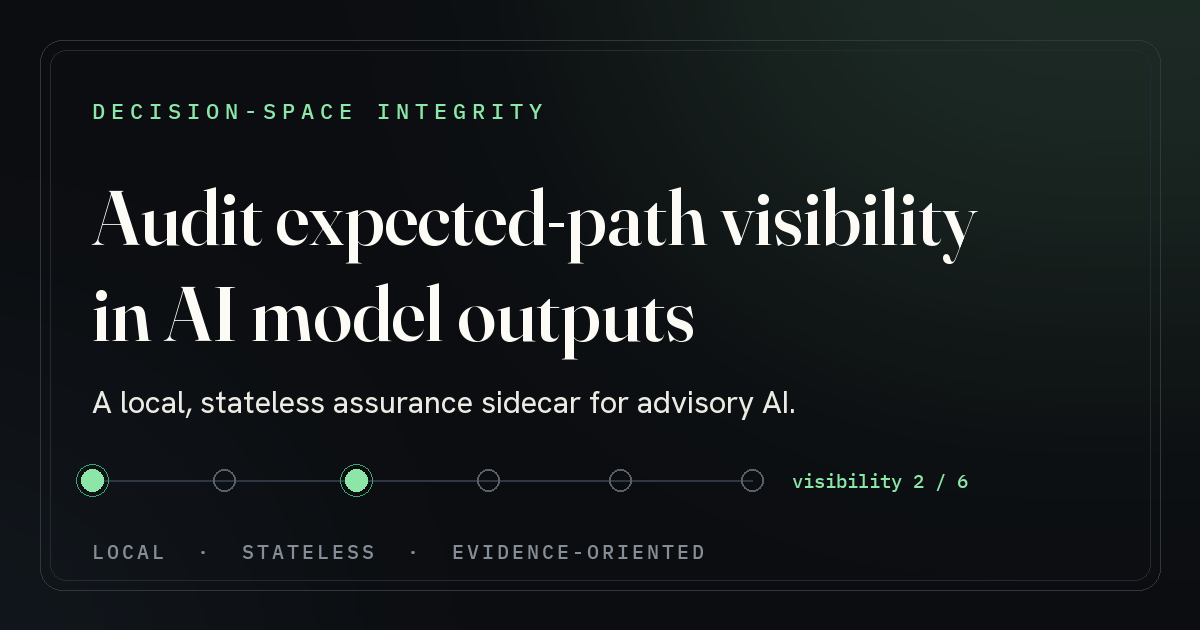
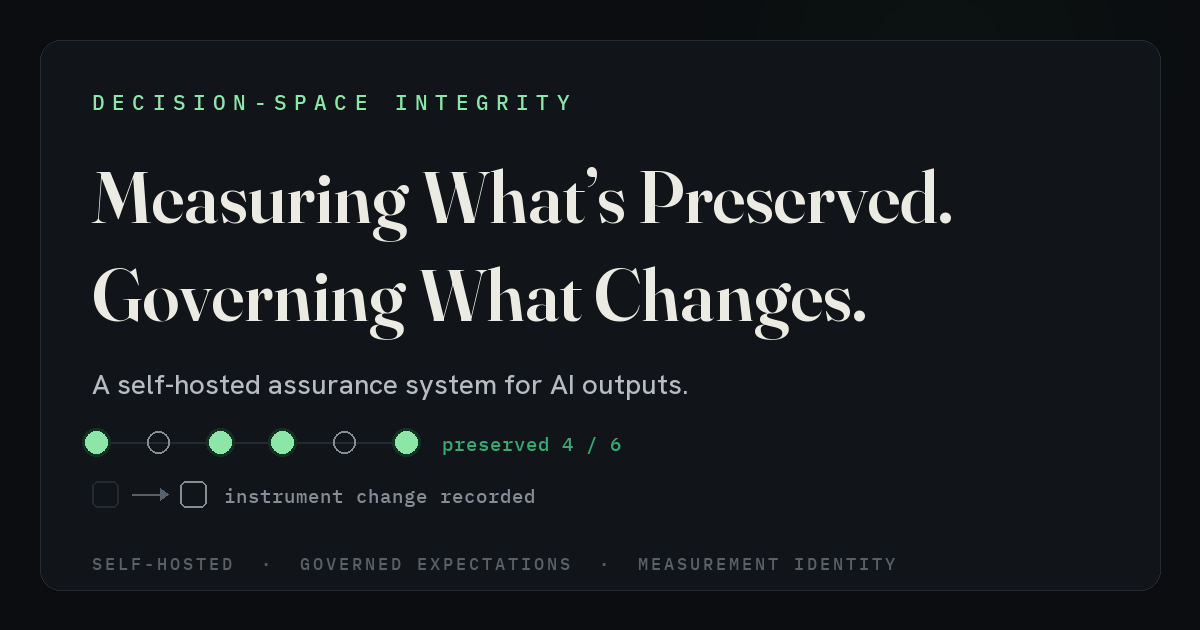
website: re-cut the shared OG card to the WEB-META-1 identity
Replaces assets/og/dsi-og-image.png (1200x630) with artwork carrying the
approved line "Measuring What's Preserved. Governing What Changes." in the
established DSI visual system: #0b0d10 ground, #14181d rounded panel,
#232a32 rule, Fraunces headline, Hanken Grotesk subtitle, IBM Plex Mono
eyebrow and footer, #8ce6a8 accent. The measurement motif is retained and
extended to the two-layer identity: a preserved/missing node rail, and an
instrument-change marker for the governance half.

Because the shared asset changed, all 32 og:image:alt / twitter:image:alt
strings on the 17 pages that reference it were updated to describe the new
artwork. This is an accessibility correction caused by the replacement, not
a positioning rewrite: unrelated technical uses of "expected-path
visibility" in page prose are untouched.

Fonts were temporary build inputs only (Fraunces, Hanken Grotesk and IBM
Plex Mono from the google/fonts OFL repository). No font binary is
committed, styles.css is unchanged, and no @font-face was introduced.

The reviewed copy from 49ba995 is preserved verbatim: title, og:title,
twitter:title and all three description fields are byte-unchanged, and the
visible homepage hero is untouched.

diff --git a/research.html b/research.html
@@ -15,12 +15,12 @@
 <meta property="og:image" content="https://decisionspaceintegrity.com/assets/og/dsi-og-image.png">
 <meta property="og:image:width" content="1200">
 <meta property="og:image:height" content="630">
-<meta property="og:image:alt" content="Decision-Space Integrity — audit expected-path visibility in AI model outputs">
+<meta property="og:image:alt" content="Decision-Space Integrity card: Measuring What's Preserved. Governing What Changes.">
 <meta name="twitter:card" content="summary_large_image">
 <meta name="twitter:title" content="Research — From Decision-Space Collapse to Measurement Integrity">
 <meta name="twitter:description" content="Research on decision-space collapse and the integrity of behavioural measurement: trajectory omission, framing sensitivity, measurement authority and cross-version comparability.">
 <meta name="twitter:image" content="https://decisionspaceintegrity.com/assets/og/dsi-og-image.png">
-<meta name="twitter:image:alt" content="Decision-Space Integrity — audit expected-path visibility in AI model outputs">
+<meta name="twitter:image:alt" content="Decision-Space Integrity card: Measuring What's Preserved. Governing What Changes.">
 <link rel="icon" href="/assets/icons/favicon.svg" type="image/svg+xml">
 <link rel="icon" href="/assets/icons/favicon-32x32.png" sizes="32x32" type="image/png">
 <link rel="icon" href="/assets/icons/favicon-16x16.png" sizes="16x16" type="image/png">

diff --git a/index.html b/index.html
@@ -15,12 +15,12 @@
 <meta property="og:image" content="https://decisionspaceintegrity.com/assets/og/dsi-og-image.png">
 <meta property="og:image:width" content="1200">
 <meta property="og:image:height" content="630">
-<meta property="og:image:alt" content="Decision-Space Integrity — audit expected-path visibility in AI model outputs">
+<meta property="og:image:alt" content="Decision-Space Integrity card: Measuring What's Preserved. Governing What Changes.">
 <meta name="twitter:card" content="summary_large_image">
 <meta name="twitter:title" content="Decision-Space Integrity — Measuring What's Preserved. Governing What Changes.">
 <meta name="twitter:description" content="A self-hosted assurance system that measures which governed expected elements an AI output preserved, with evidence of what changed when the instrument changes.">
 <meta name="twitter:image" content="https://decisionspaceintegrity.com/assets/og/dsi-og-image.png">
-<meta name="twitter:image:alt" content="Decision-Space Integrity — audit expected-path visibility in AI model outputs">
+<meta name="twitter:image:alt" content="Decision-Space Integrity card: Measuring What's Preserved. Governing What Changes.">
 <link rel="icon" href="/assets/icons/favicon.svg" type="image/svg+xml">
 <link rel="icon" href="/assets/icons/favicon-32x32.png" sizes="32x32" type="image/png">
 <link rel="icon" href="/assets/icons/favicon-16x16.png" sizes="16x16" type="image/png">

diff --git a/reading.html b/reading.html
@@ -15,12 +15,12 @@
 <meta property="og:image" content="https://decisionspaceintegrity.com/assets/og/dsi-og-image.png">
 <meta property="og:image:width" content="1200">
 <meta property="og:image:height" content="630">
-<meta property="og:image:alt" content="Decision-Space Integrity — audit expected-path visibility in AI model outputs">
+<meta property="og:image:alt" content="Decision-Space Integrity card: Measuring What's Preserved. Governing What Changes.">
 <meta name="twitter:card" content="summary_large_image">
 <meta name="twitter:title" content="Further reading — the evidence behind decision-space collapse">
 <meta name="twitter:description" content="External research on advisory-AI homogenisation, option narrowing, value suppression, automation bias, and pluralistic alignment — the gap Decision-Space Integrity measures.">
 <meta name="twitter:image" content="https://decisionspaceintegrity.com/assets/og/dsi-og-image.png">
-<meta name="twitter:image:alt" content="Decision-Space Integrity — audit expected-path visibility in AI model outputs">
+<meta name="twitter:image:alt" content="Decision-Space Integrity card: Measuring What's Preserved. Governing What Changes.">
 <link rel="icon" href="/assets/icons/favicon.svg" type="image/svg+xml">
 <link rel="icon" href="/assets/icons/favicon-32x32.png" sizes="32x32" type="image/png">
 <link rel="icon" href="/assets/icons/favicon-16x16.png" sizes="16x16" type="image/png">

diff --git a/product.html b/product.html
@@ -15,12 +15,12 @@
 <meta property="og:image" content="https://decisionspaceintegrity.com/assets/og/dsi-og-image.png">
 <meta property="og:image:width" content="1200">
 <meta property="og:image:height" content="630">
-<meta property="og:image:alt" content="Decision-Space Integrity — audit expected-path visibility in AI model outputs">
+<meta property="og:image:alt" content="Decision-Space Integrity card: Measuring What's Preserved. Governing What Changes.">
 <meta name="twitter:card" content="summary_large_image">
 <meta name="twitter:title" content="Product — Decision-Space Integrity, a local assurance sidecar">
 <meta name="twitter:description" content="DSI audits supplied AI responses, identifies missing configured expected paths, recommends visibility review, re-audits regenerated outputs, and exports evidence bundles.">
 <meta name="twitter:image" content="https://decisionspaceintegrity.com/assets/og/dsi-og-image.png">
-<meta name="twitter:image:alt" content="Decision-Space Integrity — audit expected-path visibility in AI model outputs">
+<meta name="twitter:image:alt" content="Decision-Space Integrity card: Measuring What's Preserved. Governing What Changes.">
 <link rel="icon" href="/assets/icons/favicon.svg" type="image/svg+xml">
 <link rel="icon" href="/assets/icons/favicon-32x32.png" sizes="32x32" type="image/png">
 <link rel="icon" href="/assets/icons/favicon-16x16.png" sizes="16x16" type="image/png">

diff --git a/applications.html b/applications.html
@@ -15,12 +15,12 @@
 <meta property="og:image" content="https://decisionspaceintegrity.com/assets/og/dsi-og-image.png">
 <meta property="og:image:width" content="1200">
 <meta property="og:image:height" content="630">
-<meta property="og:image:alt" content="Decision-Space Integrity — audit expected-path visibility in AI model outputs">
+<meta property="og:image:alt" content="Decision-Space Integrity card: Measuring What's Preserved. Governing What Changes.">
 <meta name="twitter:card" content="summary_large_image">
 <meta name="twitter:title" content="Applications | Decision-Space Integrity">
 <meta name="twitter:description" content="Applications of Decision-Space Integrity: auditing an AI answer against a defined set of expected points and reporting what was omitted, with source evidence.">
 <meta name="twitter:image" content="https://decisionspaceintegrity.com/assets/og/dsi-og-image.png">
-<meta name="twitter:image:alt" content="Decision-Space Integrity — audit expected-path visibility in AI model outputs">
+<meta name="twitter:image:alt" content="Decision-Space Integrity card: Measuring What's Preserved. Governing What Changes.">
 <link rel="icon" href="/assets/icons/favicon.svg" type="image/svg+xml">
 <link rel="icon" href="/assets/icons/favicon-32x32.png" sizes="32x32" type="image/png">
 <link rel="icon" href="/assets/icons/favicon-16x16.png" sizes="16x16" type="image/png">

diff --git a/privacy.html b/privacy.html
@@ -15,12 +15,12 @@
 <meta property="og:image" content="https://decisionspaceintegrity.com/assets/og/dsi-og-image.png">
 <meta property="og:image:width" content="1200">
 <meta property="og:image:height" content="630">
-<meta property="og:image:alt" content="Decision-Space Integrity — audit expected-path visibility in AI model outputs">
+<meta property="og:image:alt" content="Decision-Space Integrity card: Measuring What's Preserved. Governing What Changes.">
 <meta name="twitter:card" content="summary_large_image">
 <meta name="twitter:title" content="Privacy — Decision-Space Integrity">
 <meta name="twitter:description" content="Privacy notice for decisionspaceintegrity.com: what this static site does and does not process, hosting and font requests, email correspondence, and your rights.">
 <meta name="twitter:image" content="https://decisionspaceintegrity.com/assets/og/dsi-og-image.png">
-<meta name="twitter:image:alt" content="Decision-Space Integrity — audit expected-path visibility in AI model outputs">
+<meta name="twitter:image:alt" content="Decision-Space Integrity card: Measuring What's Preserved. Governing What Changes.">
 <link rel="icon" href="/assets/icons/favicon.svg" type="image/svg+xml">
 <link rel="icon" href="/assets/icons/favicon-32x32.png" sizes="32x32" type="image/png">
 <link rel="icon" href="/assets/icons/favicon-16x16.png" sizes="16x16" type="image/png">

diff --git a/paper.html b/paper.html
@@ -15,12 +15,12 @@
 <meta property="og:image" content="https://decisionspaceintegrity.com/assets/og/dsi-og-image.png">
 <meta property="og:image:width" content="1200">
 <meta property="og:image:height" content="630">
-<meta property="og:image:alt" content="Decision-Space Integrity — audit expected-path visibility in AI model outputs">
+<meta property="og:image:alt" content="Decision-Space Integrity card: Measuring What's Preserved. Governing What Changes.">
 <meta name="twitter:card" content="summary_large_image">
 <meta name="twitter:title" content="Decision-Space Collapse in Advisory Language Models">
 <meta name="twitter:description" content="Preprint by Andrew J Cousins on decision-space collapse in advisory language models and the Decision-Space Integrity measurement framework.">
 <meta name="twitter:image" content="https://decisionspaceintegrity.com/assets/og/dsi-og-image.png">
-<meta name="twitter:image:alt" content="Decision-Space Integrity — audit expected-path visibility in AI model outputs">
+<meta name="twitter:image:alt" content="Decision-Space Integrity card: Measuring What's Preserved. Governing What Changes.">
 <link rel="icon" href="/assets/icons/favicon.svg" type="image/svg+xml">
 <link rel="icon" href="/assets/icons/favicon-32x32.png" sizes="32x32" type="image/png">
 <link rel="icon" href="/assets/icons/favicon-16x16.png" sizes="16x16" type="image/png">

diff --git a/release-notes.html b/release-notes.html
@@ -15,12 +15,12 @@
 <meta property="og:image" content="https://decisionspaceintegrity.com/assets/og/dsi-og-image.png">
 <meta property="og:image:width" content="1200">
 <meta property="og:image:height" content="630">
-<meta property="og:image:alt" content="Decision-Space Integrity — audit expected-path visibility in AI model outputs">
+<meta property="og:image:alt" content="Decision-Space Integrity card: Measuring What's Preserved. Governing What Changes.">
 <meta name="twitter:card" content="summary_large_image">
 <meta name="twitter:title" content="Release notes — Decision-Space Integrity 0.2.1">
 <meta name="twitter:description" content="What changed in DSI Product 0.2.1: deployment diagnostics, first-class Regression Audit, a readiness endpoint, and a context-admission fix.">
 <meta name="twitter:image" content="https://decisionspaceintegrity.com/assets/og/dsi-og-image.png">
-<meta name="twitter:image:alt" content="Decision-Space Integrity — audit expected-path visibility in AI model outputs">
+<meta name="twitter:image:alt" content="Decision-Space Integrity card: Measuring What's Preserved. Governing What Changes.">
 <link rel="icon" href="/assets/icons/favicon.svg" type="image/svg+xml">
 <link rel="icon" href="/assets/icons/favicon-32x32.png" sizes="32x32" type="image/png">
 <link rel="icon" href="/assets/icons/favicon-16x16.png" sizes="16x16" type="image/png">

diff --git a/security.html b/security.html
@@ -15,12 +15,12 @@
 <meta property="og:image" content="https://decisionspaceintegrity.com/assets/og/dsi-og-image.png">
 <meta property="og:image:width" content="1200">
 <meta property="og:image:height" content="630">
-<meta property="og:image:alt" content="Decision-Space Integrity — audit expected-path visibility in AI model outputs">
+<meta property="og:image:alt" content="Decision-Space Integrity card: Measuring What's Preserved. Governing What Changes.">
 <meta name="twitter:card" content="summary_large_image">
 <meta name="twitter:title" content="Security &amp; operations — Decision-Space Integrity">
 <meta name="twitter:description" content="How DSI 0.2.1 runs safely: local-first, stateless, no provider call, no telemetry, loopback by default, customer-controlled evidence.">
 <meta name="twitter:image" content="https://decisionspaceintegrity.com/assets/og/dsi-og-image.png">
-<meta name="twitter:image:alt" content="Decision-Space Integrity — audit expected-path visibility in AI model outputs">
+<meta name="twitter:image:alt" content="Decision-Space Integrity card: Measuring What's Preserved. Governing What Changes.">
 <link rel="icon" href="/assets/icons/favicon.svg" type="image/svg+xml">
 <link rel="icon" href="/assets/icons/favicon-32x32.png" sizes="32x32" type="image/png">
 <link rel="icon" href="/assets/icons/favicon-16x16.png" sizes="16x16" type="image/png">

diff --git a/decision-space-integrity-compared-with-existing-ai-evaluation.html b/decision-space-integrity-compared-with-existing-ai-evaluation.html
@@ -15,12 +15,12 @@
 <meta property="og:image" content="https://decisionspaceintegrity.com/assets/og/dsi-og-image.png">
 <meta property="og:image:width" content="1200">
 <meta property="og:image:height" content="630">
-<meta property="og:image:alt" content="Decision-Space Integrity — audit expected-path visibility in AI model outputs">
+<meta property="og:image:alt" content="Decision-Space Integrity card: Measuring What's Preserved. Governing What Changes.">
 <meta name="twitter:card" content="summary_large_image">
 <meta name="twitter:title" content="Decision-Space Integrity compared with existing AI evaluation">
 <meta name="twitter:description" content="Each existing evaluation measures a real property — but none measure whether reasonable options were left out.">
 <meta name="twitter:image" content="https://decisionspaceintegrity.com/assets/og/dsi-og-image.png">
-<meta name="twitter:image:alt" content="Decision-Space Integrity — audit expected-path visibility in AI model outputs">
+<meta name="twitter:image:alt" content="Decision-Space Integrity card: Measuring What's Preserved. Governing What Changes.">
 <link rel="icon" href="/assets/icons/favicon.svg" type="image/svg+xml">
 <link rel="icon" href="/assets/icons/favicon-32x32.png" sizes="32x32" type="image/png">
 <link rel="icon" href="/assets/icons/favicon-16x16.png" sizes="16x16" type="image/png">

diff --git a/andrew-j-cousins.html b/andrew-j-cousins.html
@@ -15,12 +15,12 @@
 <meta property="og:image" content="https://decisionspaceintegrity.com/assets/og/dsi-og-image.png">
 <meta property="og:image:width" content="1200">
 <meta property="og:image:height" content="630">
-<meta property="og:image:alt" content="Decision-Space Integrity — audit expected-path visibility in AI model outputs">
+<meta property="og:image:alt" content="Decision-Space Integrity card: Measuring What's Preserved. Governing What Changes.">
 <meta name="twitter:card" content="summary_large_image">
 <meta name="twitter:title" content="Andrew J Cousins — author of Decision-Space Integrity">
 <meta name="twitter:description" content="Author of the Decision-Space Integrity framework and the decision-space collapse preprint.">
 <meta name="twitter:image" content="https://decisionspaceintegrity.com/assets/og/dsi-og-image.png">
-<meta name="twitter:image:alt" content="Decision-Space Integrity — audit expected-path visibility in AI model outputs">
+<meta name="twitter:image:alt" content="Decision-Space Integrity card: Measuring What's Preserved. Governing What Changes.">
 <link rel="icon" href="/assets/icons/favicon.svg" type="image/svg+xml">
 <link rel="icon" href="/assets/icons/favicon-32x32.png" sizes="32x32" type="image/png">
 <link rel="icon" href="/assets/icons/favicon-16x16.png" sizes="16x16" type="image/png">

diff --git a/contact.html b/contact.html
@@ -15,12 +15,12 @@
 <meta property="og:image" content="https://decisionspaceintegrity.com/assets/og/dsi-og-image.png">
 <meta property="og:image:width" content="1200">
 <meta property="og:image:height" content="630">
-<meta property="og:image:alt" content="Decision-Space Integrity — audit expected-path visibility in AI model outputs">
+<meta property="og:image:alt" content="Decision-Space Integrity card: Measuring What's Preserved. Governing What Changes.">
 <meta name="twitter:card" content="summary_large_image">
 <meta name="twitter:title" content="Contact — Decision-Space Integrity">
 <meta name="twitter:description" content="Contact Decision-Space Integrity for product evaluation, research, replication, or collaboration enquiries.">
 <meta name="twitter:image" content="https://decisionspaceintegrity.com/assets/og/dsi-og-image.png">
-<meta name="twitter:image:alt" content="Decision-Space Integrity — audit expected-path visibility in AI model outputs">
+<meta name="twitter:image:alt" content="Decision-Space Integrity card: Measuring What's Preserved. Governing What Changes.">
 <link rel="icon" href="/assets/icons/favicon.svg" type="image/svg+xml">
 <link rel="icon" href="/assets/icons/favicon-32x32.png" sizes="32x32" type="image/png">
 <link rel="icon" href="/assets/icons/favicon-16x16.png" sizes="16x16" type="image/png">
